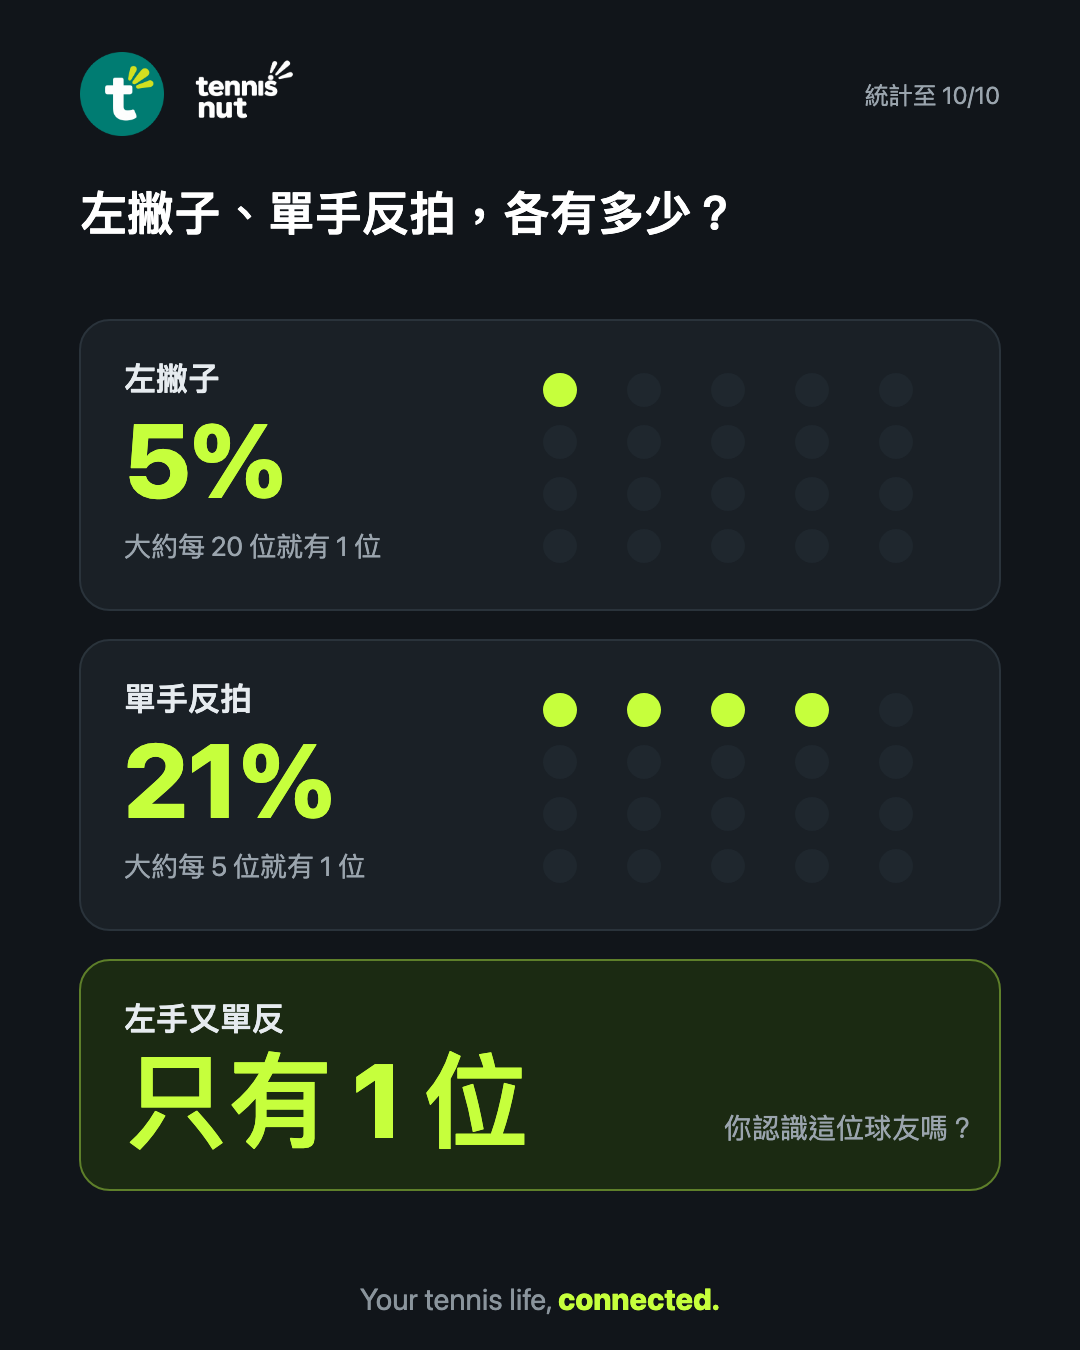
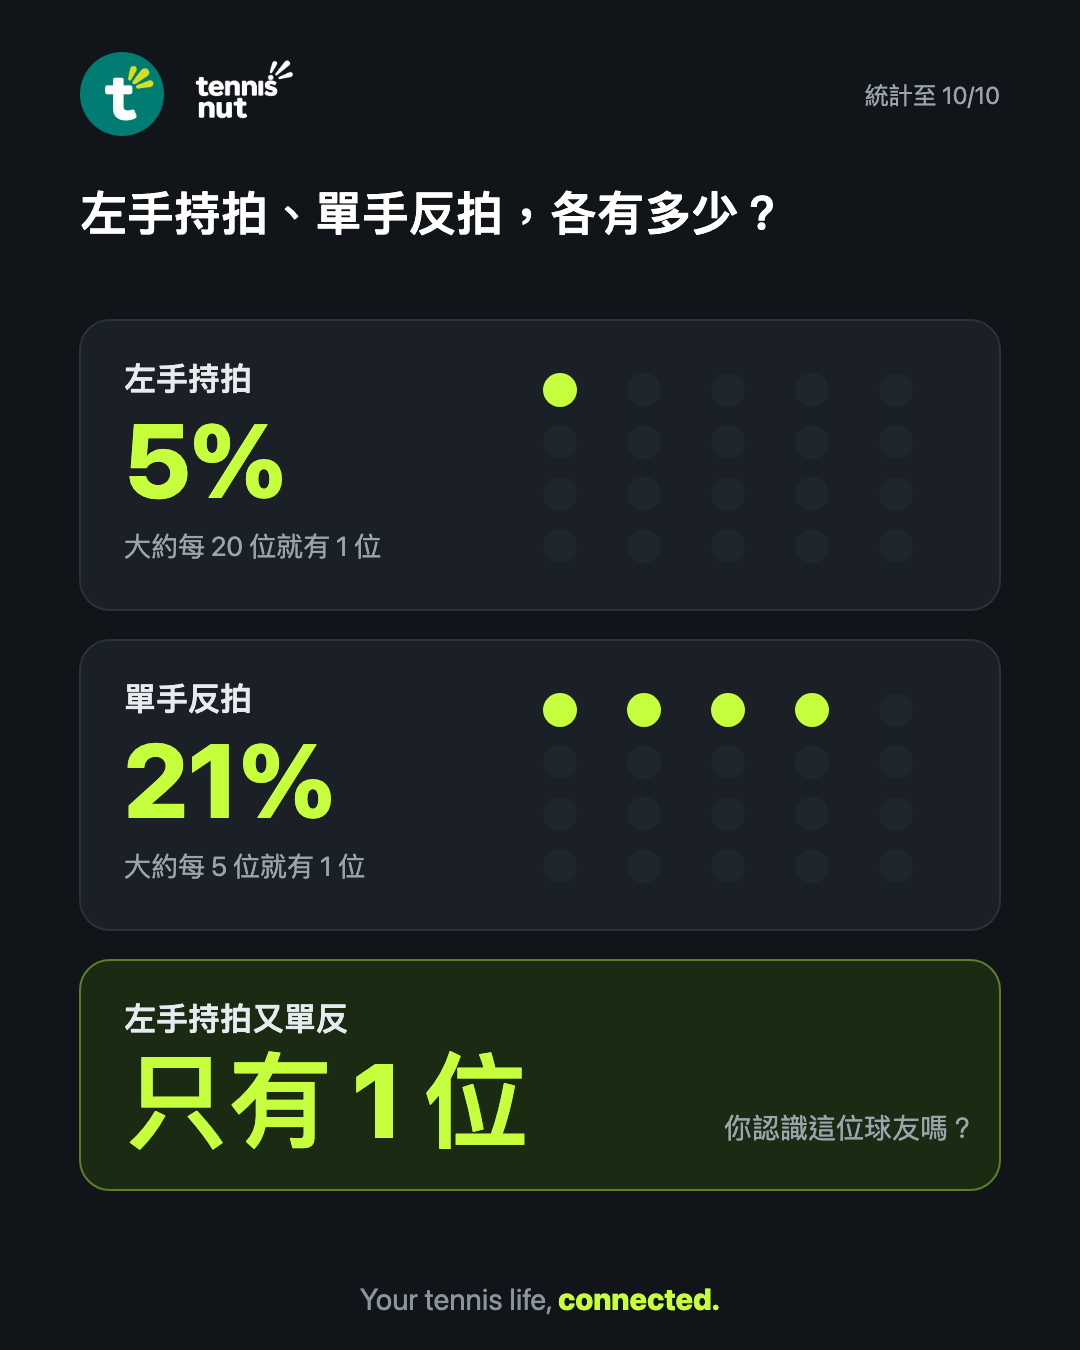
cards-ig-1010: 「左撇子」改成「左手持拍」

Changed region(s): [[0.1222, 0.1244, 0.7028, 0.1867], [0.1528, 0.2489, 0.2444, 0.3111], [0.1833, 0.7467, 0.3361, 0.7778]]

diff --git a/cards-ig-1010/build_style.py b/cards-ig-1010/build_style.py
@@ -1,12 +1,12 @@
-"""左撇子、單手反拍。數字來自 2026-10-10 的唯讀查詢：分母只算有填那一欄的真人帳號。
+"""左手持拍、單手反拍。數字來自 2026-10-10 的唯讀查詢：分母只算有填那一欄的真人帳號。
 除了「左手又單反」只有 1 位直接寫人數，其他一律用比例（樣本小，人數沒有意義）。"""
 from common import *
 T=DARK
-LEFTY=(6,110)      # 左撇子 / 有填慣用手
+LEFTY=(6,110)      # 左手持拍 / 有填慣用手
 ONE_HAND=(22,107)  # 單反 / 有填反拍
 BOTH=1             # 左手且單反
 def pct(a): return int(a[0]*100/a[1]+0.5)
-o=head('左撇子、單手反拍，各有多少？','')
+o=head('左手持拍、單手反拍，各有多少？','')
 def panel(y,label,p,per,lit):
     out=[f'<rect x="80" y="{y}" width="920" height="290" rx="30" fill="{T["panel"]}" stroke="{T["edge"]}" stroke-width="2"/>',
          f'<text x="124" y="{y+70}" font-size="32" font-weight="800" fill="{T["label"]}">{label}</text>',
@@ -18,11 +18,11 @@ def panel(y,label,p,per,lit):
         on=i<lit
         out.append(f'<circle cx="{cx}" cy="{cy}" r="17" fill="{T["accent"] if on else T["land"]}"/>')
     return out
-o+=panel(320,'左撇子',pct(LEFTY),f'大約每 {round(100/pct(LEFTY))} 位就有 1 位',round(pct(LEFTY)/5))
+o+=panel(320,'左手持拍',pct(LEFTY),f'大約每 {round(100/pct(LEFTY))} 位就有 1 位',round(pct(LEFTY)/5))
 o+=panel(640,'單手反拍',pct(ONE_HAND),f'大約每 {round(100/pct(ONE_HAND))} 位就有 1 位',round(pct(ONE_HAND)/5))
 y=960
 o.append(f'<rect x="80" y="{y}" width="920" height="230" rx="30" fill="#1B2A12" stroke="{T["dim"]}" stroke-width="2"/>')
-o.append(f'<text x="124" y="{y+70}" font-size="32" font-weight="800" fill="{T["label"]}">左手又單反</text>')
+o.append(f'<text x="124" y="{y+70}" font-size="32" font-weight="800" fill="{T["label"]}">左手持拍又單反</text>')
 o.append(f'<text x="124" y="{y+178}" font-size="104" font-weight="800" fill="{T["accent"]}">只有 {BOTH} 位</text>')
 o.append(f'<text x="976" y="{y+178}" font-size="28" fill="{T["sub"]}" text-anchor="end">你認識這位球友嗎？</text>')
 o+=foot()
